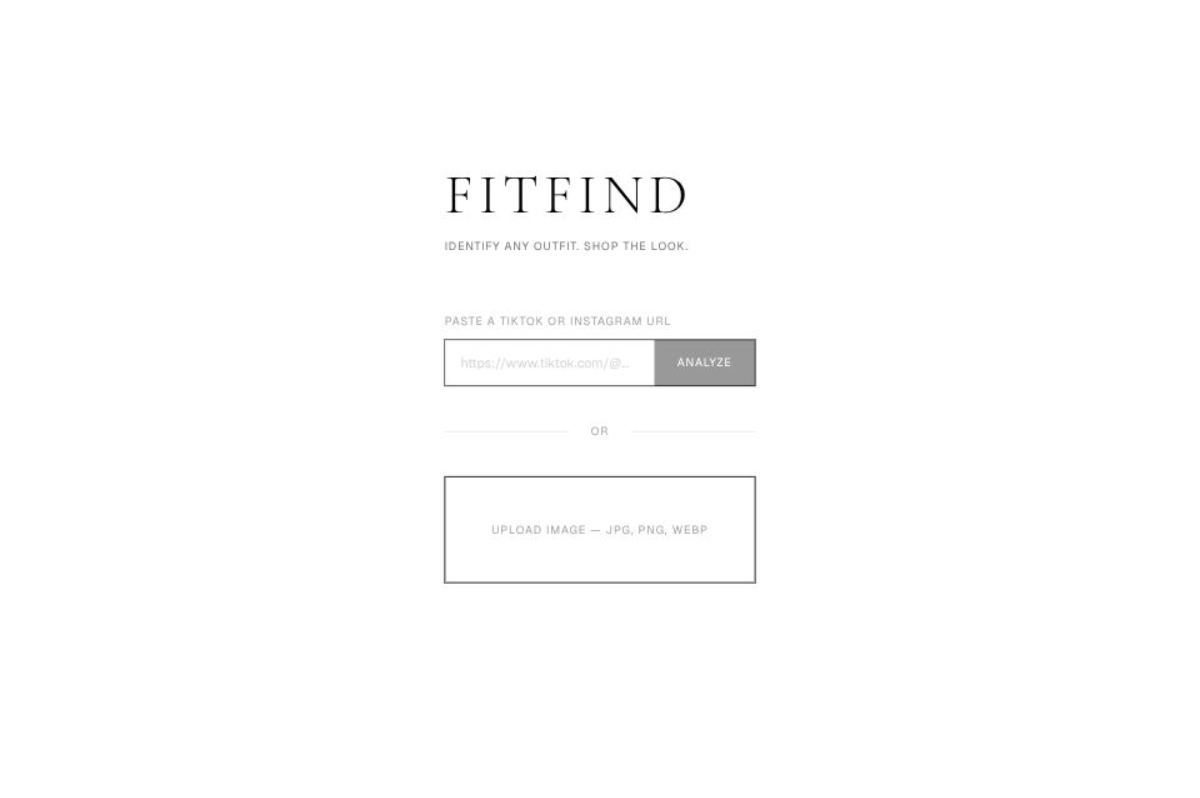
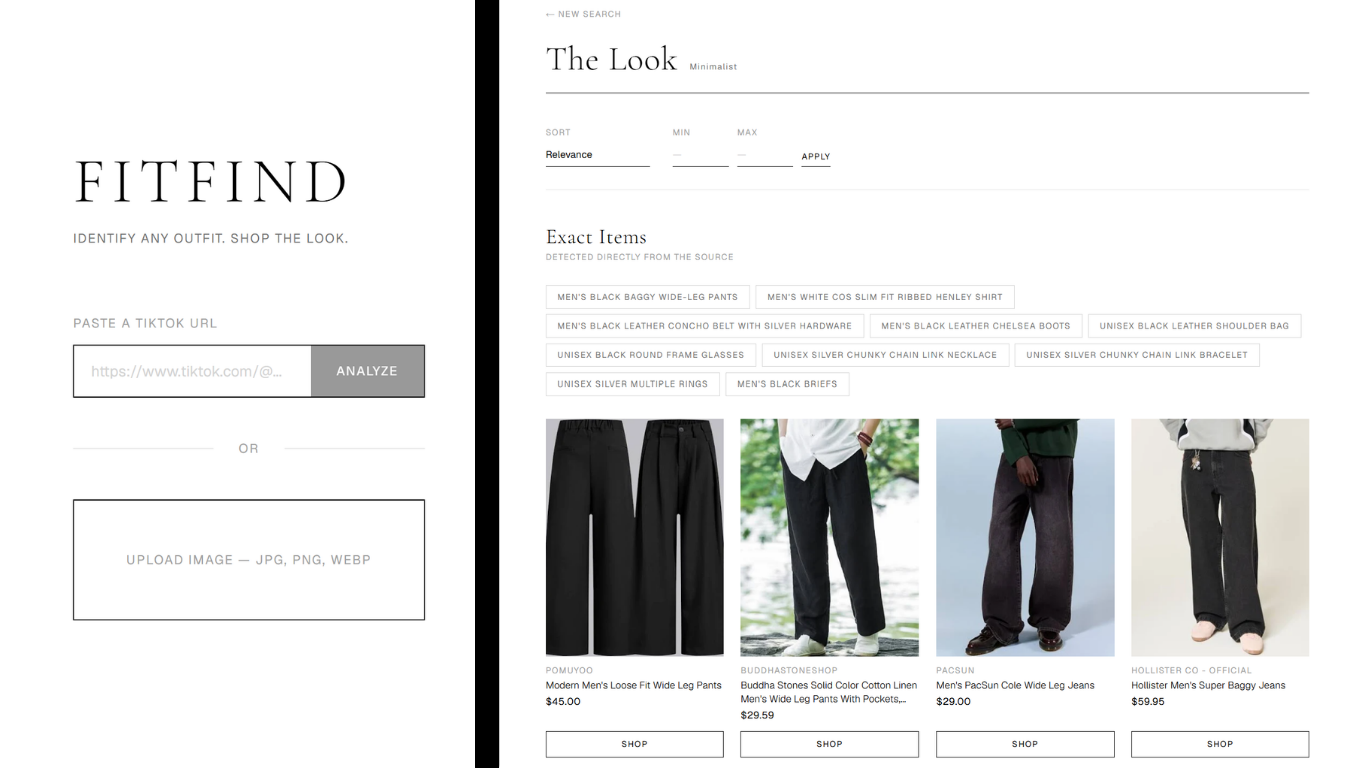
new pictures

diff --git a/src/data/projects.ts b/src/data/projects.ts
@@ -4,9 +4,9 @@ export const projects: Project[] = [
   {
     slug: "fitfind",
     title: "FitFind",
-    summary: "Paste a TikTok or Instagram link and get shoppable results matching the outfit and aesthetic.",
+    summary: "Paste a TikTok link and get shoppable results matching the outfit and aesthetic.",
     image: "projects/FitFind.png",
-    description:"A fashion discovery app that turns a pasted TikTok/Instagram URL or uploaded screenshot into shoppable product results. yt-dlp and OpenCV extract key frames from the video server-side, then a single Gemini Vision call detects individual clothing items and classifies the overall aesthetic (e.g. 'gorpcore', 'quiet luxury'). Results are split into two sections — Exact Items, matched to the specific detected pieces, and Related Items, matched to the broader aesthetic — with sort and price filtering handled client-side after a single Serper API call per query to avoid redundant re-fetching. Built with a FastAPI backend and Next.js frontend, with retry logic for Gemini rate limits and gender-aware prompting for more accurate item classification.",
+    description:"A fashion discovery app that turns a pasted TikTok URL or uploaded screenshot into shoppable product results. yt-dlp and OpenCV extract key frames from the video server-side, then a single Gemini Vision call detects individual clothing items and classifies the overall aesthetic (e.g. 'gorpcore', 'quiet luxury'). Results are split into two sections — Exact Items, matched to the specific detected pieces, and Related Items, matched to the broader aesthetic — with sort and price filtering handled client-side after a single Serper API call per query to avoid redundant re-fetching. Built with a FastAPI backend and Next.js frontend, with retry logic for Gemini rate limits and gender-aware prompting for more accurate item classification.",
     tags: ["Next.js", "FastAPI", "Gemini Vision", "Python", "TypeScript"],
     liveUrl: "https://fitfind-joshuanguyen.vercel.app",
     repoUrl: "https://github.com/JoshNguyen13/FitFind",
@@ -27,7 +27,7 @@ export const projects: Project[] = [
     slug: "macrobook",
     title: "MacroBook",
     summary: "Paste a TikTok or Instagram recipe link and get it parsed into ingredients, macros, and a logged calorie entry automatically.",
-    image: "projects/macrobook-portfolio-preview.png", 
+    image: "projects/MacroBook.png", 
     description: "A calorie tracker and recipe manager built with Expo (React Native) for iOS, Android, and web from one codebase, backed by Supabase (Postgres, auth, RLS, Edge Functions). Beyond standard calorie tracking (USDA FoodData Central search, serving-based logging, barcode scanning via Open Food Facts, weekly trend charts) the core feature is recipe import from TikTok, Instagram, and YouTube links: an Edge Function fetches each platform's caption/description (TikTok oEmbed, YouTube Data API, or Instagram page metadata with automatic retry for its inconsistent responses), then parses it into structured ingredients and steps. Macros are extracted directly when a creator states them, or estimated from the parsed ingredient list via per-ingredient USDA lookups otherwise. Recipe search (Spoonacular) and calorie data are proxied through server-side Edge Functions so third-party API keys never reach the client.",
     tags: ["React Native", "Expo", "Supabase", "PostgreSQL", "Gemini", "TypeScript"],
     liveUrl: "https://macrobook-joshuanguyen.vercel.app/", 
